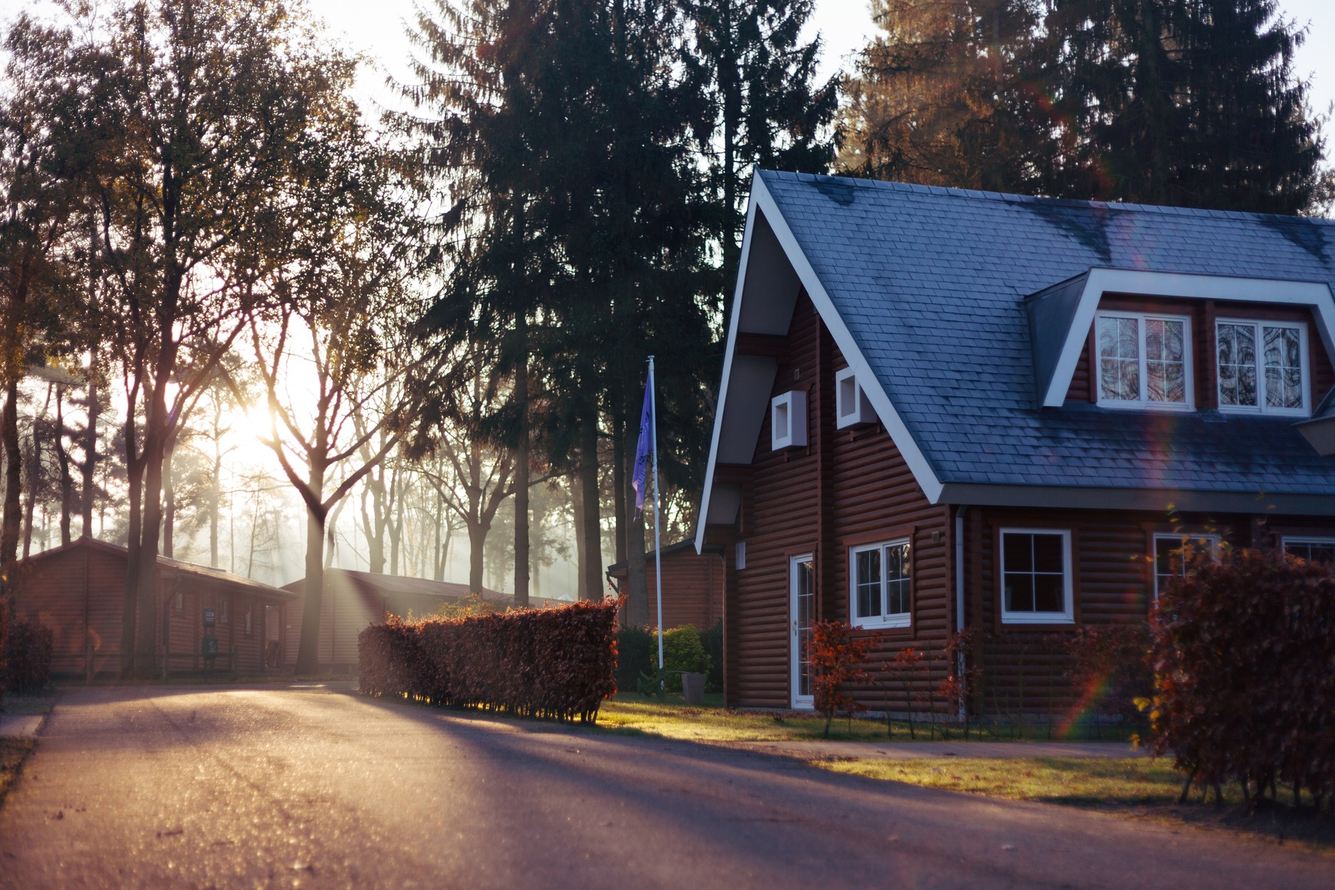
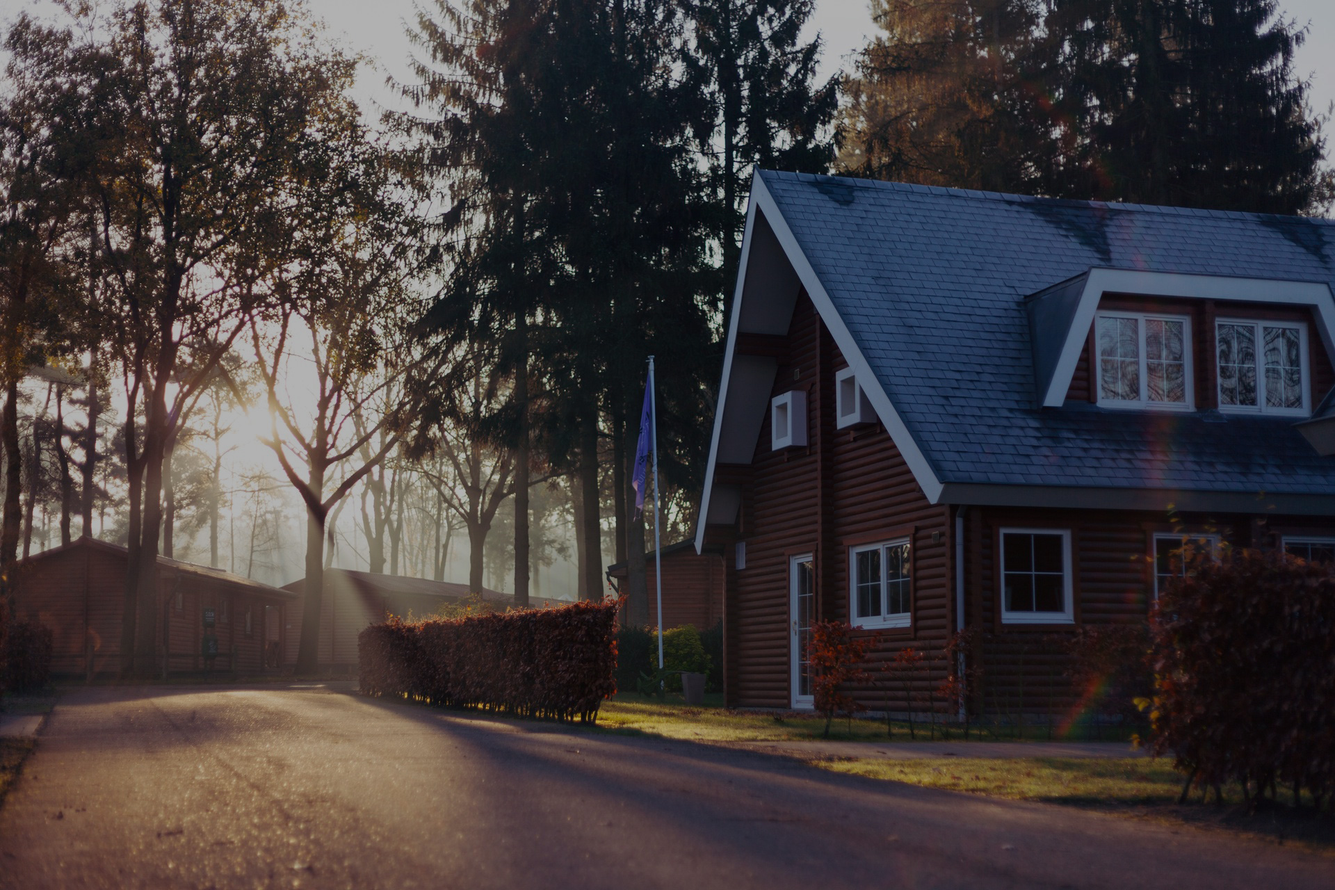
Solucionado el scroll en el Index de Template

diff --git a/template/assets/css/custom.css b/template/assets/css/custom.css
@@ -82,16 +82,6 @@ nav.navbar .navbar-collapse .navbar-nav li:hover {
     font-weight: bold;
     text-shadow: 1px 1px 1px #333;
 }
-.main-template .flex .section:first-child:before {
-    content: '';
-    position: fixed;
-    display: block;
-    top: 0;
-    left: 0;
-    right: 0;
-    bottom: 0;
-    background: rgba(0,0,0,0.3);
-}
 .flex .section:last-child {
     position: relative;
 }
